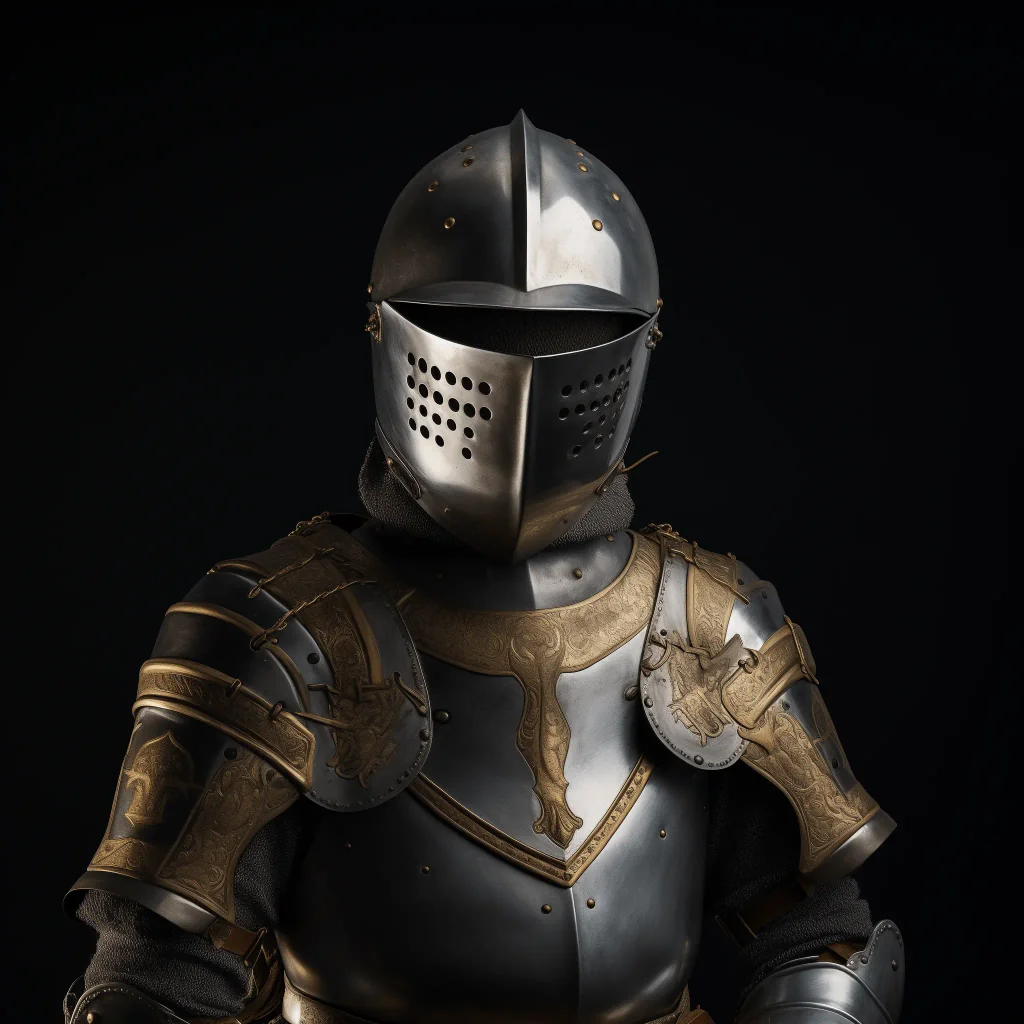
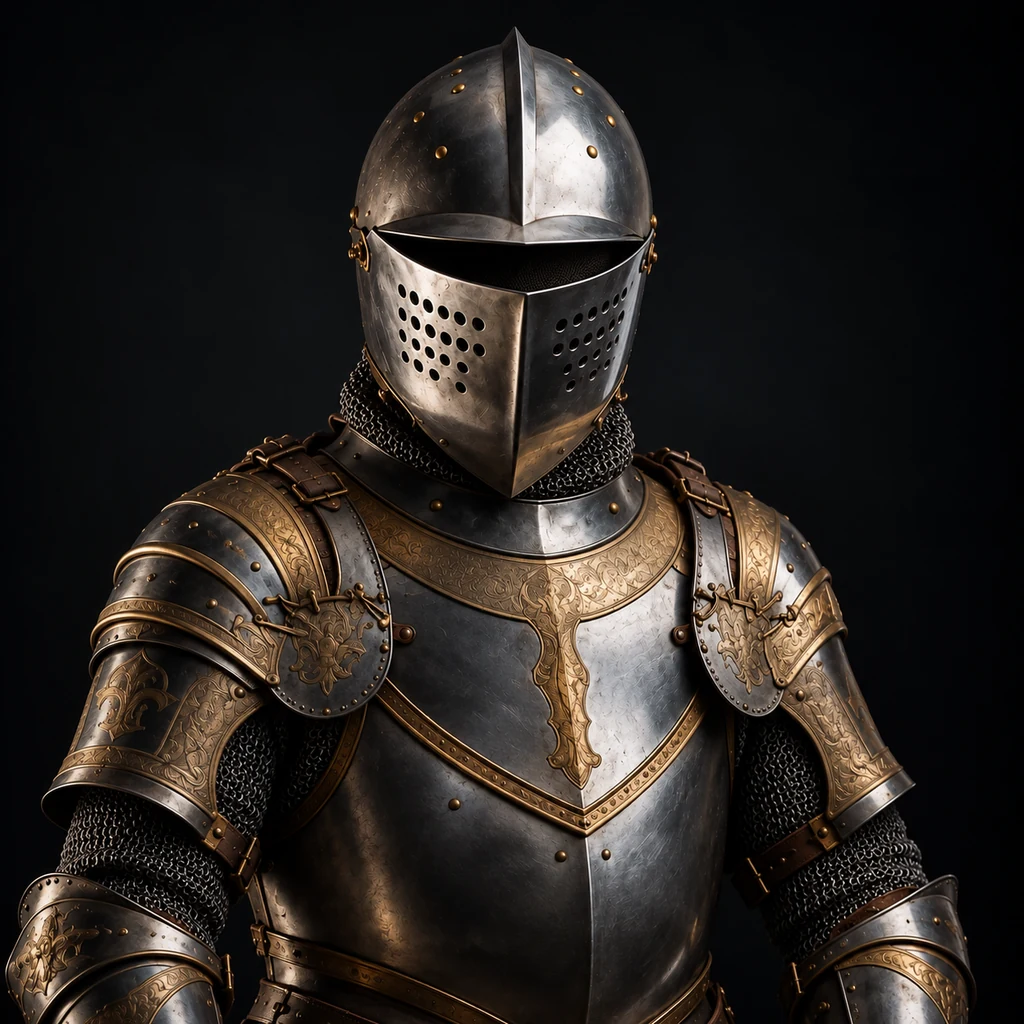
update servant

diff --git a/packages/ui/src/helpers/styles/role-framing.ts b/packages/ui/src/helpers/styles/role-framing.ts
@@ -12,7 +12,7 @@ export const roleFraming: Record<'default' | 'legacy' | 'anime', Record<string, 
     isolde: [1.5, 53, 0, 165, 53, 0],
     cleric: [1.25, 60, 0, 125, 60, 10],
     troublemaker: [1.2, 53, 0, 165, 53, 0],
-    servant: [1.25, 48, 5, 150, 48, 25],
+    servant: [1.25, 48, 5, 150, 48, 5],
     good_lancelot: [1.25, 48, 0, 140, 48, 0],
     evil_lancelot: [1.25, 48, 0, 140, 48, 0],
     unknown_lancelot: [1.25, 48, 0, 140, 48, 0],
